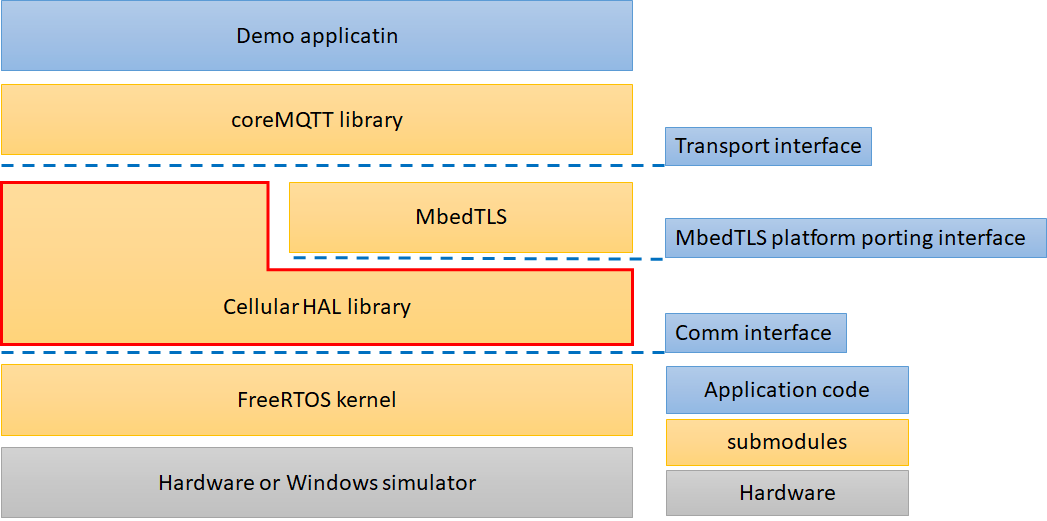
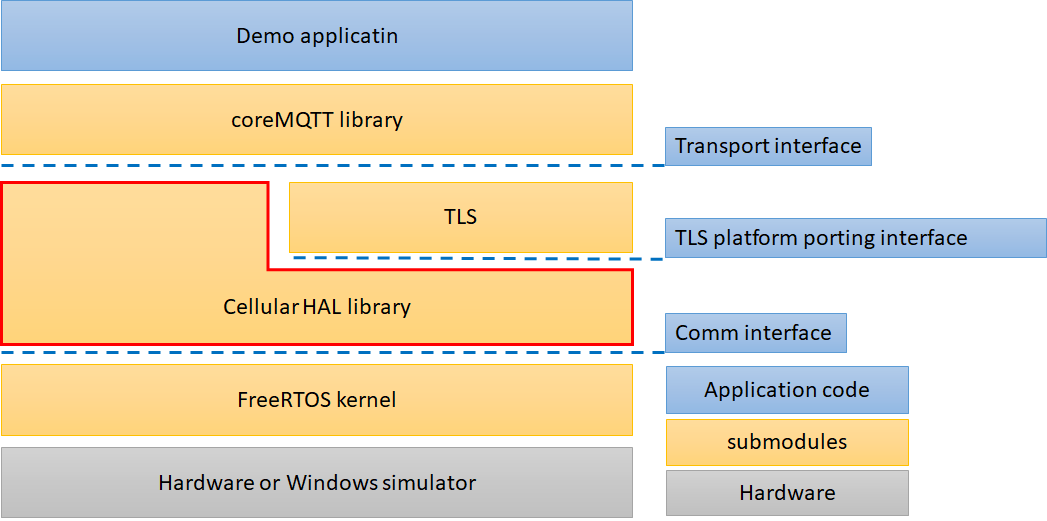
Update README.md
Update README.md

Changed region(s): [[0.6418, 0.4299, 0.978, 0.4914], [0.3973, 0.3992, 0.489, 0.4299]]

diff --git a/README.md b/README.md
@@ -2,32 +2,52 @@
 
 ## Introduction
 
-FreeRTOS has a complete suite of networking stacks designed for IoT applications.  Applications can use communication protocols at different levels - MQTT, HTTP, Secure Sockets or TCP.  Common connectivity technologies such as Ethernet, Wi-Fi and BLE have been supported by FreeRTOS, with a wide selection of chips and modules already integrated for out-of-the box usage.
+FreeRTOS offers a suite of networking stacks designed for IoT applications.  Applications can access communication protocols at different levels - MQTT, HTTP, Secure Sockets, etc.  Common connectivity technologies such as Ethernet, Wi-Fi and BLE have been integrated with the networking stacks of FreeRTOS, with a [wide selection of](https://devices.amazonaws.com/search?page=1&sv=freertos)[microcontrollers and modules](https://devices.amazonaws.com/search?page=1&sv=freertos) pre-integrated. 
 
-The demos in this project show how to establish mutually authenticated MQTT connections with AWS IoT Core by using cellular connectivity.  The demos use the [Cellular HAL libraries](http://ec2-52-36-17-39.us-west-2.compute.amazonaws.com/cellular/index.html) from a sub-moduled external project.  The Cellular HAL libraries expose the capability of a few popular cellular modems through a uniform API.  
+The demos in this project demonstrate how to establish mutually authenticated MQTT connections to MQTT brokers, such as AWS IoT Core, by using cellular connectivity.  The demos use the [Cellular HAL libraries](http://ec2-52-36-17-39.us-west-2.compute.amazonaws.com/cellular/index.html) sub-moduled from an external project.  The Cellular HAL libraries expose the capability of a few popular cellular modems through a uniform API.  
 
 1. Quectel BG96
-2. Sierra HL7802
-3. Ublox Sara R4 series
+2. Sierra Wireless HL7802
+3. U-Blox Sara-R4
 
-The MQTT and HTTP libraries of FreeRTOS use an abstract [Transport Interface](https://github.com/FreeRTOS/coreMQTT/blob/main/source/interface/transport_interface.h) to exchange data with any transport in a generic way.  The demos in this project offer a [reusable implementation](https://github.com/FreeRTOS/Lab-Project-FreeRTOS-Cellular-Demo/blob/master/source/coreMQTT/using_mbedtls.c) of the [Transport Interface](https://github.com/FreeRTOS/coreMQTT/blob/main/source/interface/transport_interface.h) on top of the uniform API exposed by the Cellular HAL libraries.  
+The MQTT and HTTP libraries of FreeRTOS use an abstract [Transport Interface](https://github.com/FreeRTOS/coreMQTT/blob/main/source/interface/transport_interface.h) to send/receive data in a generic way.  The demos in this project offer a [implementation](https://github.com/FreeRTOS/Lab-Project-FreeRTOS-Cellular-Demo/blob/master/source/coreMQTT/using_mbedtls.c) of the Transport Interface on top of the uniform API exposed by the Cellular HAL libraries.  
 
-The demos in this project can be run in the [FreeRTOS Windows Simulator](https://freertos.org/FreeRTOS-Windows-Simulator-Emulator-for-Visual-Studio-and-Eclipse-MingW.html).  You will need a Windows PC and one of the supported cellular modems.  A version of Visual Studio such as the [free Community version of Visual Studios](https://visualstudio.microsoft.com/vs/community/) will be needed for building the demos.
+## Hardware Setup
+
+The demos in this project can be run in the [FreeRTOS Windows Simulator](https://freertos.org/FreeRTOS-Windows-Simulator-Emulator-for-Visual-Studio-and-Eclipse-MingW.html).  You will need a Windows PC and one of the supported cellular modems to run a demo.  A version of Visual Studio, such as the [free Community version of Visual Studios](https://visualstudio.microsoft.com/vs/community/), will be needed for building the demos.
+
+FreeRTOS Windows simulator make use of COM port to communicate with cellular module. Setup you cellular module communication with the following steps.
+
+1. Connect the cellular module to PC.  Most cellular dev kits have USB, in that case, just connect it to PC’s USB port and look for the COM port in Window’s Device Manager.  For example, you will see a new COM69 showing up when you connect the modem like below.  If your cellular dev kit does not have USB, use a USB adaptor [like these](https://www.amazon.com/Serial-Usb-Adapter/s?k=Serial+To+Usb+Adapter). 
+
+
+<p align="center"><img src="doc/windows_device_manager.png" width="70%"><br>
+Screenshot 1. Cellular module COM port in windows device manager</p>
+
+
+1. Use [Putty](https://www.putty.org/) or any terminal tool to verify connection with the cellular module.  Refer to you cellular module’s manual for settings like baud rate, parity, and flow control.
+    
+    Input “ATE1”, the modem should return “OK”.  Depending on your modem setting, you may see an echo of “ATE1” as well.
+    Input “AT”, the modem should return “OK”.
+
+
+<p align="center"><img src="doc/at_command_terminal.png" width="70%"><br>
+Screenshot 2. Testing the COM port with AT commands in putty</p>
 
 
 ## Components and Interfaces
 
-This project makes use of 4 sub-modules from other GitHub projects, shown as yellow boxes in the diagram below. 
+This project makes use of five (5) sub-modules from other GitHub projects, shown as yellow boxes in the diagram below. 
 
-<img src="doc/cellular_component_and_interface.png" width="70%"><br>
-Figure 1. Components and Interfaces
+<p align="center"><img src="doc/cellular_component_and_interface.png" width="70%"><br>
+Figure 1. Components and Interfaces</p>
 
-The components shown as blue boxes and dotted lines are provided by this project:
+The other components shown as blue boxes and dotted lines are implemented by this project:
 
-1. The [Transport Interface](https://github.com/FreeRTOS/Lab-Project-FreeRTOS-Cellular-Demo/tree/main/source/coreMQTT) is needed by the MQTT library (sub-moduled from the [coreMQTT](https://github.com/freertos/coreMQTT) project) to send and receive packets.
-2. The [mbedTLS platform porting layer](https://github.com/FreeRTOS/Lab-Project-FreeRTOS-Cellular-Demo/tree/main/source/mbedtls) is needed by the mbedTLS library to run on FreeRTOS.
-3. The [Comm Interface](https://github.com/FreeRTOS/Lab-Project-FreeRTOS-Cellular-Demo/tree/main/source/cellular) is used by the Cellular HAL libraries to communicate with the cellular modems over UART connections.
-4. The [Demo Application](https://github.com/FreeRTOS/Lab-Project-FreeRTOS-Cellular-Demo/tree/main/source).
+1. The [Demo Application](https://github.com/FreeRTOS/Lab-Project-FreeRTOS-Cellular-Demo/blob/main/source).  It is largely the same as the [coreMQTT demo](https://github.com/FreeRTOS/FreeRTOS/tree/master/FreeRTOS-Plus/Demo/coreMQTT_Windows_Simulator/MQTT_Mutual_Auth), with added logic to set up cellular as the transport.  (The original coreMQTT demo was designed for Wi-Fi on FreeRTOS Windows Simulator.)  There is also a demo application that integrates [1nce Zero Touch Provisioning](https://1nce.com/en/help-center/tutorials-documentations/1nce-connectivity-suite/) with the Cellular HAL and coreMQTT for connecting to AWS IoT Core.
+2. The [Transport Interface](https://github.com/FreeRTOS/Lab-Project-FreeRTOS-Cellular-Demo/blob/main/source/coreMQTT/using_mbedtls.c) is needed by the MQTT library (sub-moduled from the [coreMQTT](https://github.com/freertos/coreMQTT) project) to send and receive packets.
+3. The[TLS porting interface](https://github.com/FreeRTOS/Lab-Project-FreeRTOS-Cellular-Demo/blob/main/source/mbedtls/mbedtls_freertos_port.c) is needed by the mbedTLS library to run on FreeRTOS.
+4. The [Comm Interface](https://github.com/FreeRTOS/Lab-Project-FreeRTOS-Cellular-Demo/blob/main/source/cellular/comm_if_windows.c) is used by the Cellular HAL libraries to communicate with the cellular modems over UART connections.
 
 ## Developer References and API Documents
 
@@ -36,7 +56,7 @@ Please refer to [cellular HAL library API document.](http://ec2-52-36-17-39.us-w
 
 ## Download the source code
 
-This repo uses Git Submodules to bring in dependent components.
+This repo uses Git Submodules to bring in external components.
 To clone using HTTPS:
 
 ```
@@ -57,23 +77,30 @@ git submodule update --init --recursive
 
 ## Source Code Organization
 
-The demo project is called mqtt_mutual_auth_demo.sln and can be found on [Github](https://github.com/FreeRTOS/Lab-Project-FreeRTOS-Cellular-Demo/tree/main/projects) in the following directory for different cellular modules.
+The demo project files for Visual Studio are named *xyz*_mqtt_mutual_auth_demo.sln, where *xyz *is the name of the cellular modem.  They can be found on [Github](https://github.com/FreeRTOS/Lab-Project-FreeRTOS-Cellular-Demo/tree/main/projects) in the following directory:
 
 * [projects/bg96_mqtt_mutual_auth_demo](https://github.com/FreeRTOS/Lab-Project-FreeRTOS-Cellular-Demo/tree/master/projects/bg96_mqtt_mutual_auth_demo)
 * [projects/hl7802_mqtt_mutual_auth_demo](https://github.com/FreeRTOS/Lab-Project-FreeRTOS-Cellular-Demo/tree/master/projects/hl7802_mqtt_mutual_auth_demo)
 * [projects/sara_r4_mqtt_mutual_auth_demo](https://github.com/FreeRTOS/Lab-Project-FreeRTOS-Cellular-Demo/tree/master/projects/sara_r4_mqtt_mutual_auth_demo)
 
+There is also a demo for 1nce zero touch provisioning with BG96 modem:
+
+* [projects/1nce_bg96_zero_touch_provisioning_demo](https://github.com/FreeRTOS/Lab-Project-FreeRTOS-Cellular-Demo/tree/master/projects/1nce_bg96_zero_touch_provisioning_demo)
+
 ```
-./Lab-Project-FreeRTOS-Cellular-HAL
+./Lab-Project-FreeRTOS-Cellular-Demo
 ├── lib
-│   ├──  cellular( submodule : Lab-Project-FreeRTOS-Cellular-HAL )
-│   ├──  coreMQTT ( submodule : coreMQTT )
-│   ├──  FreeRTOS ( submodule : FreeRTOS-Kernel )
-│   └──  mbedtls ( submodule : mbedtls )
+│   ├── backoff_algorithm ( submodule : backoffAlgorithm )
+│   ├── cellular ( submodule : Lab-Project-FreeRTOS-Cellular-HAL )
+│   ├── coreMQTT ( submodule : coreMQTT )
+│   ├── FreeRTOS ( submodule : FreeRTOS-Kernel )
+│   └── ThirdParty
+│       └── mbedtls ( submodule : mbedtls )
 ├── projects
-│   ├──  bg96_mqtt_mutual_auth_demo ( demo project for Quectel bg96)
-│   ├──  hl7802_mqtt_mutual_auth_demo ( demo project for Sierra Wireless hl7802)
-│   └──  sara_r4_mqtt_mutual_auth_demo ( demo project for u-blox sara_r4)
+│   ├──  bg96_mqtt_mutual_auth_demo ( demo project for Quectel BG96 )
+│   ├──  hl7802_mqtt_mutual_auth_demo ( demo project for Sierra Wireless HL7802 )
+│   ├──  sara_r4_mqtt_mutual_auth_demo ( demo project for U-Blox Sara-R4 )
+│   └──  1nce_bg96_zero_touch_provisioning_demo ( demo project for 1nce zero touch provisioning with BG96 )
 └── source
     ├── cellular
     │   └── ( code for adapting Cellular HAL libraries with this demo )
@@ -83,14 +110,14 @@ The demo project is called mqtt_mutual_auth_demo.sln and can be found on [Github
     │   └── ( code for adapting FreeRTOS with this demo )
     ├── mbedtls
     │   └── ( code for adapting mbedtls with this demo )
-    ├── MutualAuthMQTTExample.c
+    ├── main.c
     ├── cellular_setup.c
+    ├── MutualAuthMQTTExample.c
     ├── demo_config.h
-    ├── exponential_backoff.c
-    ├── exponential_backoff.h
     ├── logging_levels.h
     ├── logging_stack.h
-    └── main.c
+    ├── 1nce_zero_touch_provisioning.h
+    └── 1nce_zero_touch_provisioning.c
 ```
 
 
@@ -99,7 +126,7 @@ The demo project is called mqtt_mutual_auth_demo.sln and can be found on [Github
 
 ### **Configure cellular network**
 
-Cellular configurations can be found in [“source/cellular/cellular_config.h”](https://github.com/FreeRTOS/Lab-Project-FreeRTOS-Cellular-Demo/blob/master/source/cellular/cellular_config.h). Modify the following configuration for your network environment.
+Cellular configurations can be found in [“source/cellular/<cellular_module>/cellular_config.h”](https://github.com/FreeRTOS/Lab-Project-FreeRTOS-Cellular-Demo/tree/main/source/cellular). Modify the following parameters for your network environment.
 | Configuration   |      Description      |  Value |
 |-----------------|-----------------------|--------|
 | CELLULAR_COMM_INTERFACE_PORT | Cellular communication interface make use of COM port on computer to communicate with cellular module on windows simulator. | Your COM port connected to cellular module |
@@ -109,38 +136,40 @@ Cellular configurations can be found in [“source/cellular/cellular_config.h”
 
 Note
 
-> The u-blox SARA-R4 series support set mobile network operators.
-Set **CELLULAR_CONFIG_SET_MNO_PROFILE **in [config_r4.h](https://github.com/FreeRTOS/Lab-Project-FreeRTOS-Cellular-HAL/blob/50b4ebaa1dc363efc3f7b03dbec9414c4dcda2a7/modules/sara_r4/cellular_r4.h) according to your mobile network operator.
+> The U-Blox SARA-R4 series support setting mobile network operators.
+Set **CELLULAR_CONFIG_SARA_R4_SET_MNO_PROFILE **in [cellular_config.h](https://github.com/FreeRTOS/Lab-Project-FreeRTOS-Cellular-Demo/blob/main/source/cellular/sara_r4/cellular_config.h) according to your mobile network operator.
 
 
 
-### **Configure MQTT broker setting**
+### **Configure MQTT broker**
 
-The configuration to connect MQTT broker can be found in “[source/demo_config.h](https://github.com/FreeRTOS/Lab-Project-FreeRTOS-Cellular-Demo/blob/main/source/demo_config.h)”. Refer to the [documentation](https://www.freertos.org/mqtt/mutual-authentication-mqtt-example.html#configuration) for more information about the settings.
+The configuration for connecting to a MQTT broker can be found in “[source/demo_config.h](https://github.com/FreeRTOS/Lab-Project-FreeRTOS-Cellular-Demo/blob/main/source/demo_config.h)”. Refer to the [documentation](https://www.freertos.org/mqtt/mutual-authentication-mqtt-example.html#configuration) for more information about the settings.
+
+### Configure COM port settings
+
+Reference the cellular module documentation for COM port settings. Update the [comm_if_windows.c](https://github.com/FreeRTOS/Lab-Project-FreeRTOS-Cellular-Demo/blob/main/source/cellular/comm_if_windows.c) if necessary.
 
 ### **Configure other sub-modules**
 
-[“source/FreeRTOS/FreeRTOSConfig.h](https://github.com/FreeRTOS/Lab-Project-FreeRTOS-Cellular-Demo/blob/main/source/FreeRTOS/FreeRTOSConfig.h)”, “[source/mbedtls/mbedtls_config.h](https://github.com/FreeRTOS/Lab-Project-FreeRTOS-Cellular-Demo/blob/master/source/mbedtls/mbedtls_config.h)” and “[source/coreMQTT/core_mqtt_config.h](https://github.com/FreeRTOS/Lab-Project-FreeRTOS-Cellular-Demo/blob/main/source/coreMQTT/core_mqtt_config.h)” are configurations for the corresponding sub-modules. Please refer to the document of each module for more information.
+[“source/FreeRTOS/FreeRTOSConfig.h](https://github.com/FreeRTOS/Lab-Project-FreeRTOS-Cellular-Demo/blob/main/source/FreeRTOS/FreeRTOSConfig.h)”, “[source/mbedtls/mbedtls_config.h](https://github.com/FreeRTOS/Lab-Project-FreeRTOS-Cellular-Demo/blob/master/source/mbedtls/mbedtls_config.h)” and “[source/coreMQTT/core_mqtt_config.h](https://github.com/FreeRTOS/Lab-Project-FreeRTOS-Cellular-Demo/blob/main/source/coreMQTT/core_mqtt_config.h)” are configurations for the corresponding sub-modules. 
 
 ## Demo app execution flow
 
-The demo apps perform three types of operations:
+The demo app performs three types of operations.  By searching the names of functions in the diagram below, you can find the exact places these operations are made in the source code.
 
-1. Register to a cellular network
-2. Establish a secure connection with the MQTT broker of AWS IoT
-3. Perform MQTT operations
+1. Register to a cellular network. (See [cellular_setup.c](https://github.com/FreeRTOS/Lab-Project-FreeRTOS-Cellular-Demo/blob/main/source/cellular_setup.c))
+2. Establish a secure connection with the MQTT broker of AWS IoT.  (See [using_mbedtls.c](https://github.com/FreeRTOS/Lab-Project-FreeRTOS-Cellular-Demo/blob/main/source/coreMQTT/using_mbedtls.c))
+3. Perform MQTT operations.  (See [MutualAuthMQTTExample.c](https://github.com/FreeRTOS/Lab-Project-FreeRTOS-Cellular-Demo/blob/main/source/MutualAuthMQTTExample.c))
 
-The following diagram illustrate the interactions between the demo apps and various components.
-<img src="doc/cellular_demo_sequence.png"><br>
+The following diagram illustrates the interactions between the demo app and other components.
+<p align="center"><img src="doc/cellular_demo_sequence.png"><br>
+Figure 2. Demo application sequence diagram</p>
+## Build and run the MQTT mutual authentication demos
 
-## Build and run the demos
+1. In Visual Studio, open one of the mqtt_mutual_auth_demo.sln projects that matches your cellular modem.
+2. Compile and run.
 
-1. Download the source code from [FreeRTOS repository.](https://github.com/FreeRTOS/Lab-Project-FreeRTOS-Cellular-Demo)
-2. Configure application settings following the “Configure Application Settings” section.
-3. In Visual Studio, open one of the mqtt_mutual_auth_demo.sln projects that matches your cellular modem.
-4. Compile and run.
-
-The following is the console output of a successful execution of the BG96 mqtt_mutual_auth_demo.sln project. 
+The following is the console output of a successful execution of the bg96_mqtt_mutual_auth_demo.sln project. 
 
 ```
 [INFO] [CELLULAR] [commTaskThread:287] Cellular commTaskThread started
@@ -180,5 +209,13 @@ Incoming Publish Topic Name: testClient13:24:47/example/topic matches subscribed
 Incoming Publish Message : Hello World!
 ```
 
-## 
+## Build and run the 1nce zero-touch-provisioning demo
+
+1NCE is a global IoT Carrier specialized in providing managed connectivity services for low bandwidth IoT applications. In this demo, 1NCE service(a 1NCE sim card + AWS IoT device onboarding server) and BG96 cellular module are used to demonstrate how to provision device with zero-touch and connect to AWS IoT core. Refer to the [1nce blueprint for FreeRTOS](https://github.com/1NCE-GmbH/blueprint-freertos), in particular, [this flow chart](https://1nce.com/wp-content/uploads/2020/07/Identity2.png), to learn how the zero-touch-provisioning works. 
+
+1. In Visual Studio, open the 1nce_bg96_zero_touch_provisioning_demo.sln project.  In this Visual Studio solution file, the macro of `USE_1NCE_ZERO_TOUCH_PROVISIONING` is defined. Please look for `#ifdef USE_1NCE_ZERO_TOUCH_PROVISIONING` in the source files to see how it does differently to provision the device by using the 1nce service.  Otherwise, this demo performs the same mutually authenticated MQTT operations as the other demos.
+2. Generate a self-signed certificate and its private key locally.  (See [this example](https://docs.aws.amazon.com/iot/latest/developerguide/create-device-cert.html).)  Update “[source/demo_config.h](https://github.com/FreeRTOS/Lab-Project-FreeRTOS-Cellular-Demo/blob/main/source/demo_config.h)” with the certificate and private key. These are for the purpose of establishing TLS connection to 1nce server.  Note that adding keys into a header file is done for convenience of demonstration only.  Production devices should use secure storage to store the keys.
+3. Get APN for your SIM card from 1NCE.  Update `CELLULAR_APN` in file “[cellular_config.h for BG96](https://github.com/FreeRTOS/Lab-Project-FreeRTOS-Cellular-Demo/blob/main/source/cellular/bg96/cellular_config.h)”. And follow Configure Application Settings steps above to finish the rest configuration.
+4. Compile and run.
+
 
